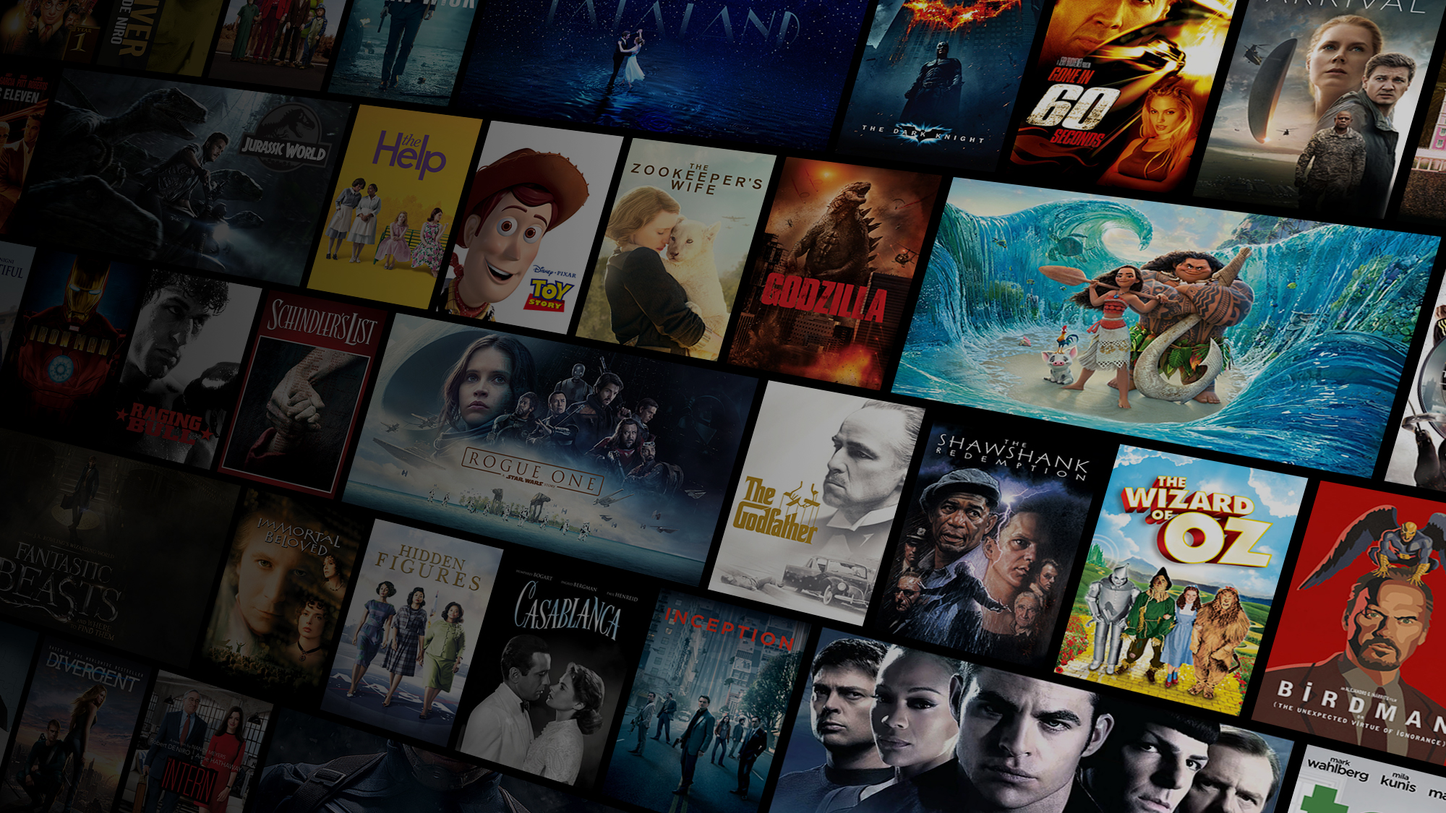
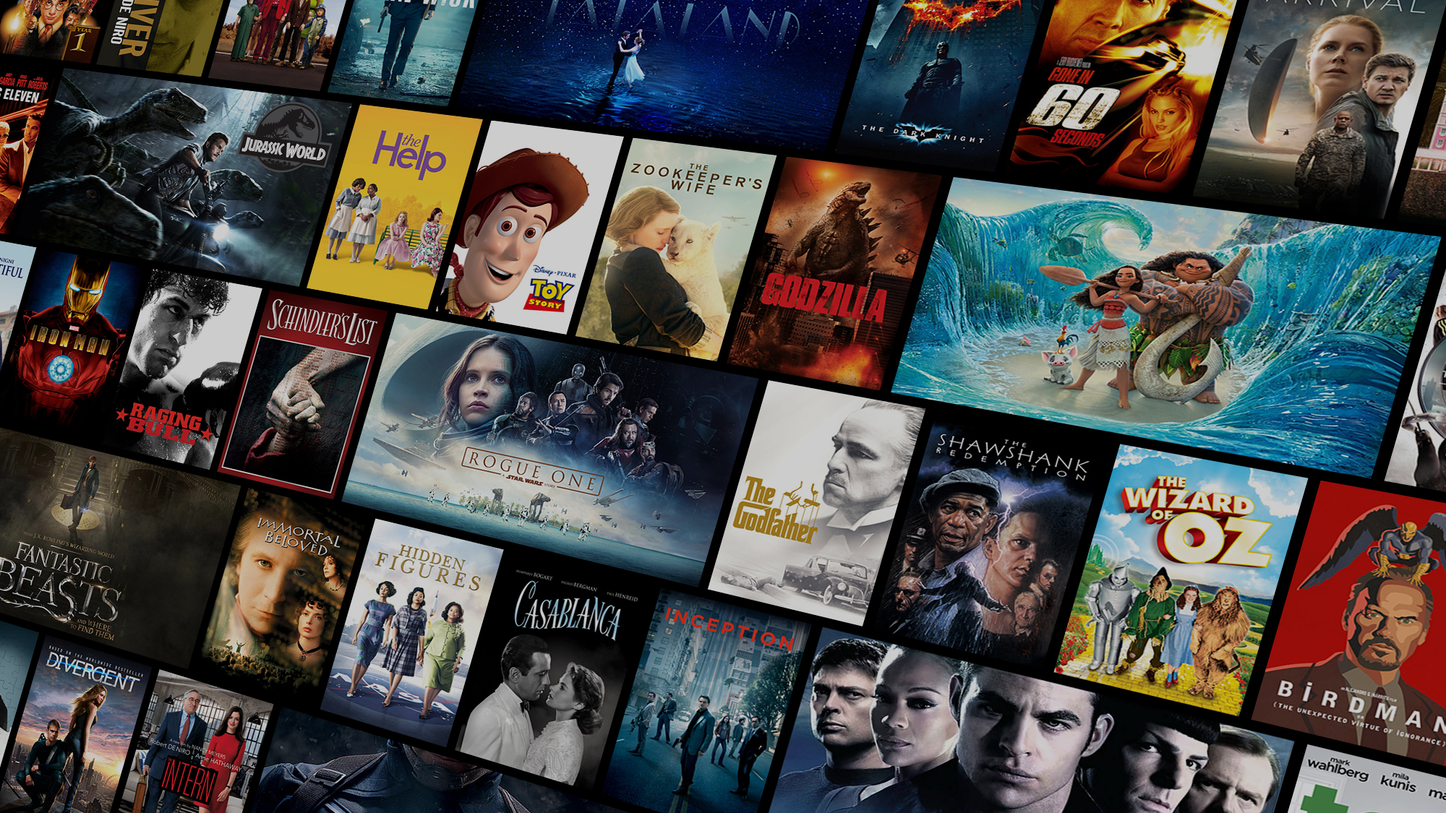
Add gradient to css and update background image

diff --git a/app/assets/stylesheets/welcome.scss b/app/assets/stylesheets/welcome.scss
@@ -12,10 +12,52 @@
     margin: 0;
     padding: 0;
 
-    background: image-url('main_background.jpg') no-repeat center center fixed;
+    background: image-url('main_background.jpg') no-repeat left center fixed;
     background-size: cover;
+    &:before{
+      position: absolute;
+        top: 0;
+        right: 0;
+        bottom: 0;
+        left: 0;
+
+        content: '';
+
+        opacity: 1;
+        background-image: linear-gradient(to bottom,$black,transparent 7%);
+        @include lg {
+        background-image: none;
+        }
+        @include xl {
+        background-image: none;
+        }
+    }
+    &:after
+    {
+        position: absolute;
+        top: 0;
+        right: 0;
+        bottom: 0;
+        left: 0;
+
+        content: '';
+
+        opacity: 1;
+        background-image: linear-gradient(to top,$black,transparent);
+        @include lg {
+          opacity: .85;
+        background-image: linear-gradient(to right,$black,transparent);
+        }
+        @include xl {
+          opacity: .85;
+        background-image: linear-gradient(to right,$black,transparent);
+        }
+    }
     .fake-nav
     {
+        position: relative;
+        z-index: 3;
+
         margin-top: 1.5em;
         margin-left: 2.5em;
         img
@@ -36,16 +78,20 @@
         bottom: 0;
 
         width: 100%;
-        height: 50%;
+        height: 30%;
 
         text-align: center;
 
         @include lg
         {
+            height: 50%;
+
             text-align: left;
         }
         @include xl
         {
+            height: 50%;
+
             text-align: left;
         }
         h1
